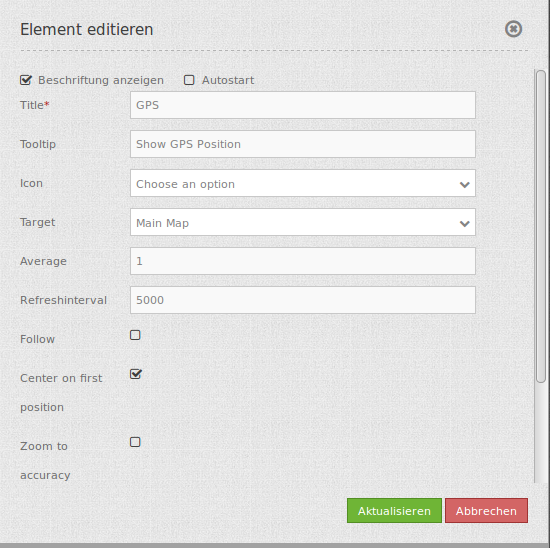
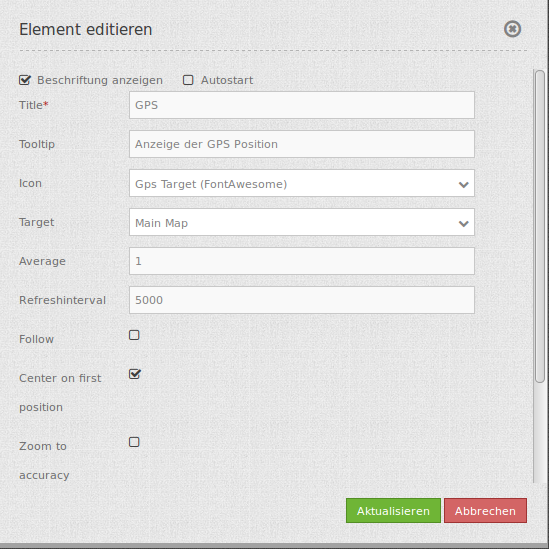
Elements: Layout Screenshot

diff --git a/de/bundles/Mapbender/CoreBundle/elements/feature_info.rst b/de/bundles/Mapbender/CoreBundle/elements/feature_info.rst
@@ -15,18 +15,21 @@ Konfiguration
      :scale: 80
 
 
-* Automatisches Öffnen (Autoopen): Schaltet ein/aus, ob das Informationsfenster beim Start der Anwendung automatisch geöffnet werden soll (Standard: Ausgeschaltet)
-* Print Result: Ermöglicht den Druck der angezeigten Informationen. 
-* Title: Titel des Elements. Dieser wird in der Layouts Liste angezeigt und ermöglicht, mehrere Button-Elemente voneinander zu unterscheiden. Der Titel wird außerdem neben dem Button angezeigt, wenn “Beschriftung anzeigen” aktiviert ist.
-* Tooltip: Text, der angezeigt wird, wenn der Mauszeiger eine längere Zeit über dem Element verweilt.
-* Target: Zielelement (Titel(ID)) des Buttons, das bei Anklicken des Buttons ausgelöst wird.
-* Type: Auwahl, ob die Info als Element oder Dialog angezeigt werden soll.   
-* Display: Anzeige der Information als Tabs oder in Accordionform.
-* Width/ Height: Größe des Infofeldes
-* nur valide zeigen: Parameter hängt sehr vom Format des GetFeatureInfo Responses ab. Beispiel UMN: Solange ein Template korrekte HTML Head und Body Elemente definiert (z.B. über die Angabe einer Headers und Footers Datei), interpretiert Mapbender3 das Resultat als valide. Fehlen diese Head und Body Angaben, so gilt dies für Mapbender3 als nicht valide. Bitte stellen Sie sicher, dass die GetFeatureInfo Antworten valides HTML zurückgeben.
+* **Automatisches Öffnen (Autoopen):** Schaltet ein/aus, ob das Informationsfenster beim Start der Anwendung automatisch geöffnet werden soll (Standard: Ausgeschaltet)
+* **Print Result:** Anzeige eines Links, über den die Infoabfrage ausgedruckt werden kann. Standardwert ist false. 
+* **Beim Schließen deaktivieren:** false, um die Funktion nach dem Schließen des Ergebnisfensters zu deaktivieren, der Standardwert ist true
+* **Title:** Titel des Elements. Dieser wird in der Layouts Liste angezeigt und ermöglicht, mehrere Button-Elemente voneinander zu unterscheiden. Der Titel wird außerdem neben dem Button angezeigt, wenn “Beschriftung anzeigen” aktiviert ist.
+* **Tooltip:** Text, der angezeigt wird, wenn der Mauszeiger eine längere Zeit über dem Element verweilt.
+* **Target:** ID des Kartenelements, auf das sich das Element bezieht.
+* **Type:** Auwahl, ob die Info als Element oder Dialog angezeigt werden soll.   
+* **Display:** Anzeige der Information als Tabs oder in Accordionform.
+* **Width/ Height:** Größe des Dialogfeldes (Breite und Höhe in Pixel)
+* **Original Zeigen:** Original css-Stil des Ergebnisses wird angezeigt. Standardwert ist false.
+* **nur valide zeigen:** Parameter hängt sehr vom Format des GetFeatureInfo Responses ab. Beispiel UMN: Solange ein Template korrekte HTML Head und Body Elemente definiert (z.B. über die Angabe einer Headers und Footers Datei), interpretiert Mapbender3 das Resultat als valide. Fehlen diese Head und Body Angaben, so gilt dies für Mapbender3 als nicht valide. Bitte stellen Sie sicher, dass die GetFeatureInfo Antworten valides HTML zurückgeben.
 
 
 YAML-Definition:
+----
 
 .. code-block:: yaml
 
@@ -41,20 +44,15 @@ YAML-Definition:
    onlyValid: null         # Standardwert ist false.
 
 
-Für das Element wird ein Button verwendet. Siehe unter :doc:`button` für die Konfiguration. Der folgende Screenshot zeigt ein Beispiel für einen FeatureInfo Button, der als aktiviert angezeigt wird, so lange der FeatureInfo Dialog geöffnet ist.
+Für das Element wird ein Button verwendet. Zu der Konfiguration des Buttons besuchen sie die Dokumentationsseite unter :doc:`button`.
 
-
-.. image:: ../../../../../figures/feature_info_button.png
-     :scale: 80
-
-   
 
 Class, Widget & Style
 ============================
 
-* Class: Mapbender\\CoreBundle\\Element\\FeatureInfo
-* Widget: mapbender.element.featureInfo.js
-* Style: mapbender.elements.css
+* **Class:** Mapbender\\CoreBundle\\Element\\FeatureInfo
+* **Widget:** mapbender.element.featureInfo.js
+* **Style:** mapbender.elements.css
 
 HTTP Callbacks
 ==============

diff --git a/de/bundles/Mapbender/CoreBundle/elements/gpsposition.rst b/de/bundles/Mapbender/CoreBundle/elements/gpsposition.rst
@@ -3,10 +3,10 @@
 GPS-Position
 ***********************
 
-Dieses Elememt stellt einen Button bereit, der zu ihrer aktuellen Position navigiert und zeigt ein Symbol an dieser Position an. Der Maßstab wird nicht verändert.
+Dieses Elememt stellt einen Button bereit, der zu ihrer aktuellen Position navigiert und zeigt ein Symbol an dieser Position an. Der Maßstab wird dabei nicht verändert, außer durch Aktivierung der Einstellung ``zoom to accuracy (zoom to accuracy on first position)``. 
 
 
-.. image:: ../../../../../figures/gps_position.png
+.. image:: ../../../../../figures/de/gps_position.png
      :scale: 80
 
 Konfiguration
@@ -15,20 +15,21 @@ Konfiguration
 .. image:: ../../../../../figures/de/gps_position_configuration.png
      :scale: 80
 
-* Beschriftung anzeigen (Show button label): Schaltet die Beschriftung des Buttons an/aus.
-* Title: Titel des Elements. Dieser wird in der Layouts Liste angezeigt und ermöglicht, mehrere Button-Elemente voneinander zu unterscheiden. Der Titel wird außerdem neben dem Button angezeigt, wenn "Beschriftung anzeigen" aktiviert ist.
-* Tooltip: Text, der angezeigt wird, wenn der Mauszeiger eine längere Zeit über dem Element verweilt.
-* Icon: Symbol des Buttons, basierend auf einer CSS Klasse.
-* Target: Zielelement (Titel(ID)) des Buttons, das bei Anklicken des Buttons ausgelöst wird.
-* Average: berechnet den Mittelwert der unter Average angegebenen letzten empfangenen GPS Koordinaten, Standard ist 1
-* Refreshinterval:  Aktualisierungsintervall in ms. Der Standardwert ist 5000 ms.
-* Follow: Standard ist false, true positioniert die Karte bei jeder empfangenen GPS Koordinate neu.
-* Center on first position: true zentriert die Karte auf die erstermittelte Position
-* Zoom to accuracy: Zoomt auf die ermittelte Koordinate nach Messgenauigkeit
-* Zoom to accuracy on first position: Zoomt auf die ermittelte Koordinate nach Messgenauigkeit bei erster ermittelten Position
+* **Beschriftung anzeigen (Show button label):** Schaltet die Beschriftung des Buttons an/aus.
+* **Title:** Titel des Elements. Dieser wird in der Layouts Liste angezeigt und ermöglicht, mehrere Button-Elemente voneinander zu unterscheiden. Der Titel wird außerdem neben dem Button angezeigt, wenn "Beschriftung anzeigen" aktiviert ist.
+* **Tooltip:** Text, der angezeigt wird, wenn der Mauszeiger eine längere Zeit über dem Element verweilt.
+* **Icon:** Symbol des Buttons, basierend auf einer CSS Klasse.
+* **Target:** ID des Kartenelements, auf das sich das Element bezieht.
+* **Average:** berechnet den Mittelwert der unter Average angegebenen letzten empfangenen GPS Koordinaten, Standard ist 1
+* **Refreshinterval:**  Aktualisierungsintervall in ms. Der Standardwert ist 5000 ms.
+* **Follow:** Standard ist false, true positioniert die Karte bei jeder empfangenen GPS Koordinate neu.
+* **Center on first position:** true zentriert die Karte auf die erstermittelte Position
+* **Zoom to accuracy:** Zoomt auf die ermittelte Koordinate nach Messgenauigkeit
+* **Zoom to accuracy on first position:** Zoomt auf die ermittelte Koordinate nach Messgenauigkeit bei erster ermittelten Position
 
 
 YAML-Definition:
+----
 
 .. code-block:: yaml
 
@@ -48,9 +49,9 @@ YAML-Definition:
 Class, Widget & Style
 ======================
 
-* Class: Mapbender\\CoreBundle\\Element\\GpsPosition
-* Widget: mapbender.element.gpsPostion.js
-* Style: mapbender.element.gpsPosition.css
+* **Class:** Mapbender\\CoreBundle\\Element\\GpsPosition
+* **Widget:** mapbender.element.gpsPostion.js
+* **Style:** mapbender.element.gpsPosition.css
 
 HTTP Callbacks
 ==============

diff --git a/de/bundles/Mapbender/CoreBundle/elements/coordinates_display.rst b/de/bundles/Mapbender/CoreBundle/elements/coordinates_display.rst
@@ -14,17 +14,18 @@ Konfiguration
 .. image:: ../../../../../figures/de/coordinates_display_configuration.png
      :scale: 80
 
-* Beschriftung anzeigen (Show title label): Schaltet die Beschriftung an/aus. Die Beschriftung richtet sich nach dem Title.
-* Title: Titel des Elements. Dieser wird in der Layouts Liste angezeigt. Der Titel wird angezeigt, wenn "Beschriftung anzeigen" aktiviert ist.
-* Tooltip: Text, der angezeigt wird, wenn der Mauszeiger eine längere Zeit über dem Element verweilt.
-* Anchor: Verankerung des Elements (left-top, left-bottom, right-top, right-bottom). Bestimmt die Position des Elements im Layout. 
-* Numdigits: Anzahl der Nachkommastellen der Koordinaten.
-* Target: ID des Kartenelements, auf das sich das Element bezieht.
-* Emtpy: Angezeigter Text, wenn sich die Maus nicht in der Karte befindet (Standard: 'x= - y= -')
-* Prefix: Präfix vor der X-Koordinate (Standard 'x= ')
-* Separator: Separator nach X- und vor Y-Koordinate (Standard ' y= ')
+* **Beschriftung anzeigen (Show title label):** Schaltet die Beschriftung an/aus. Die Beschriftung richtet sich nach dem Title.
+* **Title:** Titel des Elements. Dieser wird in der Layouts Liste angezeigt. Der Titel wird angezeigt, wenn "Beschriftung anzeigen" aktiviert ist.
+* **Tooltip:** Text, der angezeigt wird, wenn der Mauszeiger eine längere Zeit über dem Element verweilt.
+* **Anchor:** Verankerung des Elements (left-top, left-bottom, right-top, right-bottom). Bestimmt die Position des Elements im Layout. 
+* **Numdigits:** Anzahl der Nachkommastellen der Koordinaten.
+* **Target:** ID des Kartenelements, auf das sich das Element bezieht.
+* **Emtpy:** Angezeigter Text, wenn sich die Maus nicht in der Karte befindet (Standard: 'x= - y= -')
+* **Prefix:** Präfix vor der X-Koordinate (Standard 'x= ')
+* **Separator:** Separator nach X- und vor Y-Koordinate (Standard ' y= ')
 
 YAML-Definition:
+----
 
 .. code-block:: yaml
 
@@ -39,9 +40,9 @@ YAML-Definition:
 Class, Widget & Style
 =====================
 
-* Class: Mapbender\\CoreBundle\\Element\\CoordinatesDisplay
-* Widget: mapbender.element.coordinatesdisplay.js
-* Style: mapbender.elements.css
+* **Class:** Mapbender\\CoreBundle\\Element\\CoordinatesDisplay
+* **Widget:** mapbender.element.coordinatesdisplay.js
+* **Style:** mapbender.elements.css
 
 HTTP Callbacks
 ==============

diff --git a/de/bundles/Mapbender/CoreBundle/elements/button.rst b/de/bundles/Mapbender/CoreBundle/elements/button.rst
@@ -3,7 +3,7 @@
 Button
 ******
 
-Dieses Element stellt ein Button-Modul bereit. Einige Elemente wie die `Legende <../elements/legend.html>`_, `Layertree (Layerbaum) <layertree.html>`_, `FeatureInfo (Infoabfrage) <../elements/feature_info.html>`_, Linien- und Flächenberechnung <../elements/ruler.html>`_ und der Druck <../elements/printclient.html>`_ benötigen einen Button, um einen Dialog anzuzeigen oder um aktiviert zu werden, wenn das Element nicht in einem Frame definiert wurde.
+Dieses Element stellt ein Button-Modul bereit. Einige Elemente wie die `Legende <../elements/legend.html>`_, `Layertree (Layerbaum) <layertree.html>`_, `FeatureInfo (Infoabfrage) <../elements/feature_info.html>`_, `Linien- und Flächenberechnung <../elements/ruler.html>`_ und der `Druck <../elements/printclient.html>`_ benötigen einen Button, um einen Dialog anzuzeigen oder um aktiviert zu werden, wenn das Element nicht in einem Frame definiert wurde.
 
 Buttons können optional gruppiert werden, so dass nur ein Button in der Gruppe aktiviert ist. Dieses wird im Gruppen-Parameter eingestellt.
 Es kann außerdem ein Button definiert werden, der sich auf eine Webseite oder ein Script bezieht und bei Aktivierung zu diesem weiterleitet.
@@ -27,7 +27,7 @@ Konfiguration
 
 
 YAML-Definition:
----
+----
 
 .. code-block:: yaml
 

diff --git a/de/bundles/Mapbender/CoreBundle/elements/copyright.rst b/de/bundles/Mapbender/CoreBundle/elements/copyright.rst
@@ -3,7 +3,10 @@
 Copyright
 ************
 
-Dieses Element zeigt das Copyright und die Nutzungsbedingungen ("Terms of use") in einem Dialog an.
+Dieses Element zeigt die Nutzungsbedingungen ("Terms of use") in einem Dialog an.
+
+.. image:: ../../../../../figures/de/copyright.png
+     :scale: 80
 
 Konfiguration
 =============
